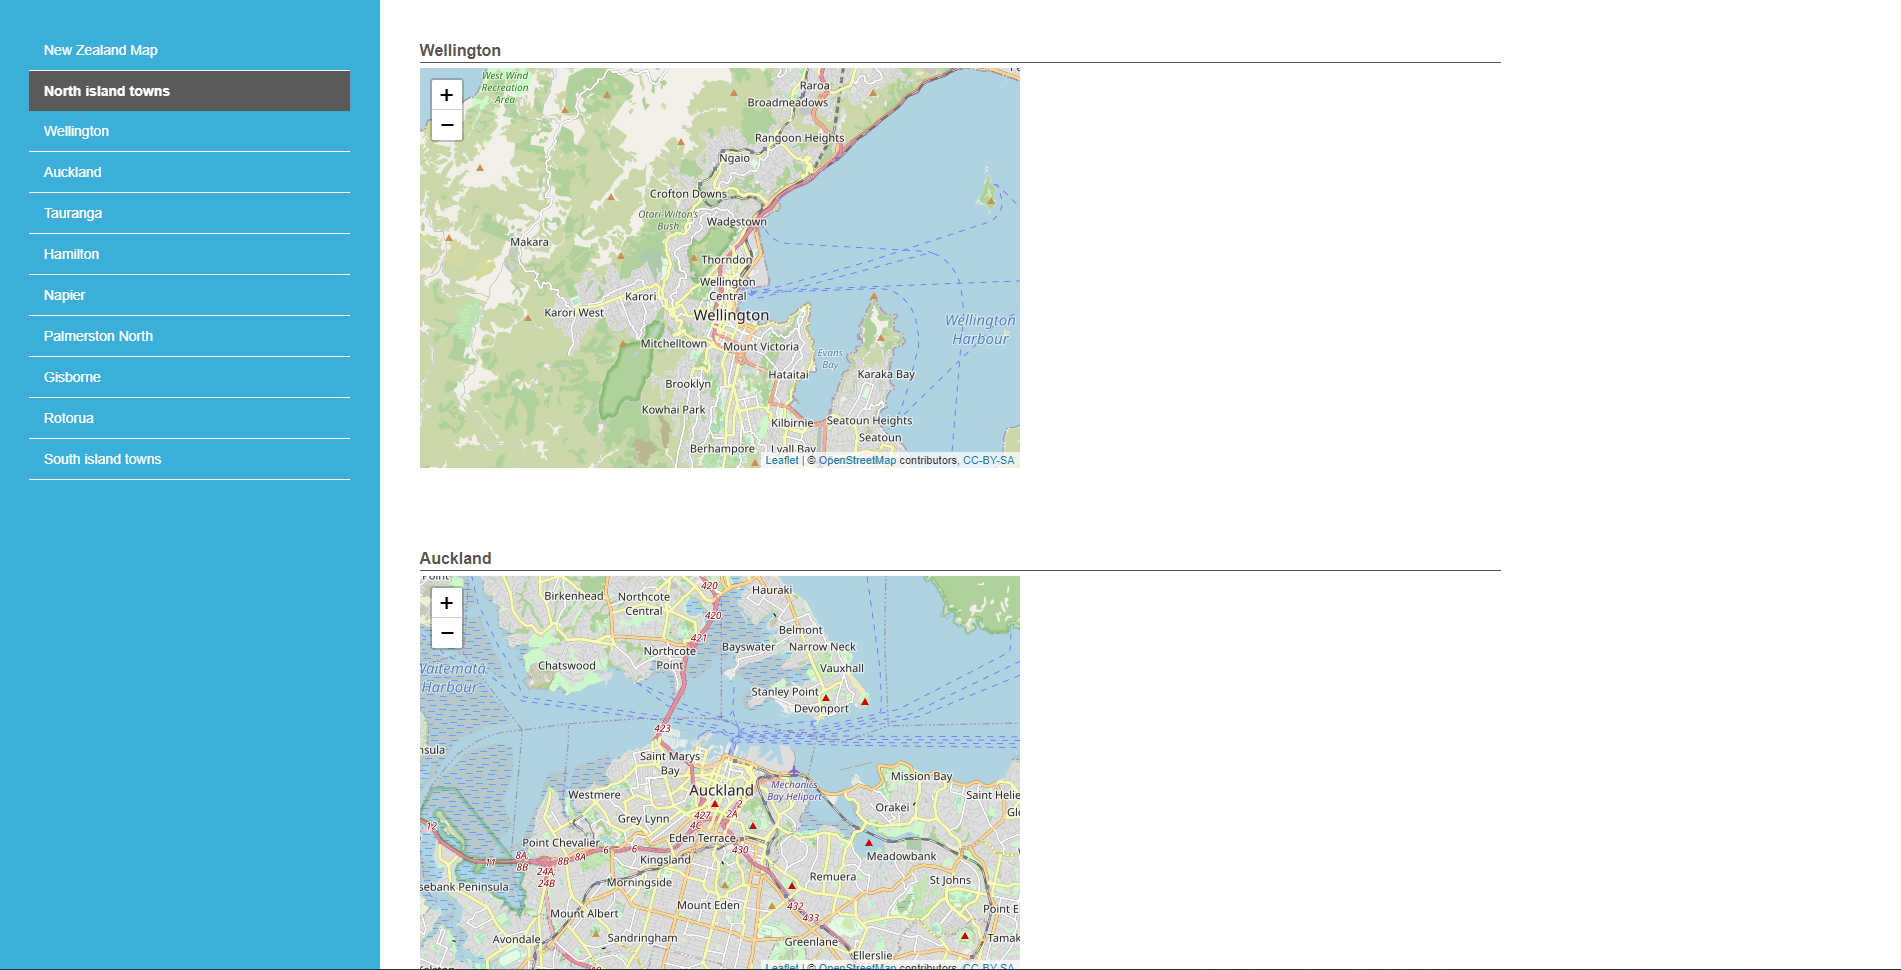
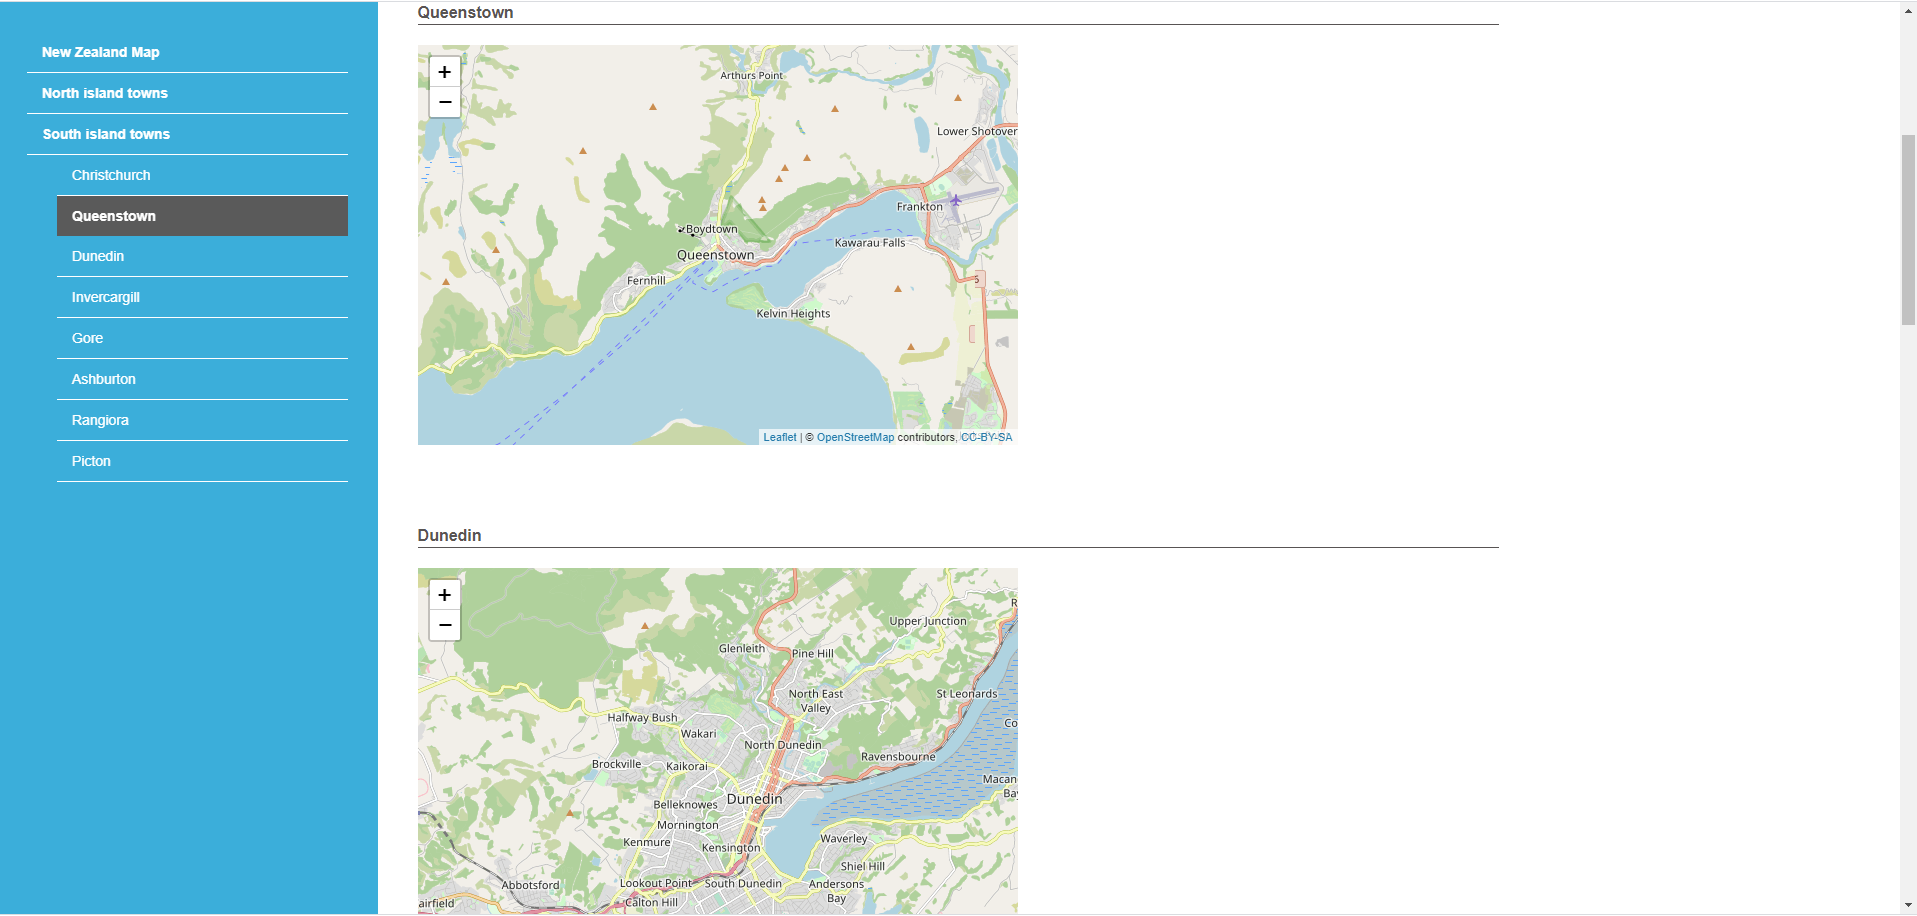
Made css changes

Changed region(s): [[0.0, 0.0, 0.7759, 1.0], [0.9932, 0.1223, 1.0, 0.3668], [0.9932, 0.9782, 1.0, 1.0]]

diff --git a/www/css/styles.css b/www/css/styles.css
@@ -447,7 +447,6 @@ h4 {
     border-bottom: none;
 }
 
-
 /* 
 ========================================================================================================================================
 ========================================================= OVERVIEW PAGE STYLES START ===================================================
@@ -522,9 +521,19 @@ h4 {
   bottom:-500px;
 }
 
-  
+#new_zealand_section{
+  padding-top: 25px;
+}
 
+.vt-dropdown-content{
+  padding-left: 30px;
+  font-weight: normal;
+}
 
+#tabs:first-child{
+  font-weight: bold;
+}
 
-
-
+.overview-section-title{
+  margin-bottom: 20px;
+}

diff --git a/www/js/util.js b/www/js/util.js
@@ -39,17 +39,14 @@ const scrollToTop = function() {
 
 const toggleVerticalTabDropdown = function(id, isDropdown) {
     Shiny.setInputValue('activeSection', id);
-    // Hide all other drop-downs and show the clicked drop-down
-    
+
     elems = $('.vertical-tab-binding').children('.vt-dropdown');
     elems.children('.vt-dropdown-content').hide();
     if(isDropdown) {
         searchstring = "#" + id + ' + .vt-dropdown-content'
         elems.find(searchstring).show();
     }
-    
     scrollToTop();
 }
-
 
 
